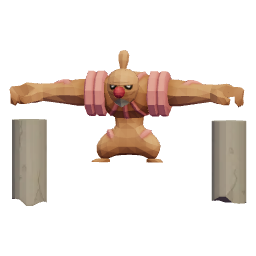
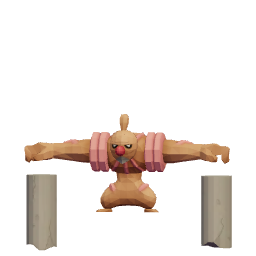
React to committed turns across handoff and amplify Timburr's clips
Move the turn-transition policy into a pure turnCues module: a deduction
earns concern, a verified stable turn a cheer, and unknown or persistent
issues only the next seat's perk. A module-scope sighting survives the
private handoff unmount without reenacting old results after reload.
Amplify routine clips for the small badge and regenerate both portraits
with the feet-anchored framing.

Claude-Session: https://claude.ai/code/session_0117Sn3PSXLUtaDsQVnG2LhH

diff --git a/apps/web/src/companion/motion.ts b/apps/web/src/companion/motion.ts
@@ -77,63 +77,63 @@ export const CLIPS = {
 
   // Routine feedback: a glance or nod, never narration.
   wave: { duration: 1300, priority: PRIORITY.routine, tracks: {
-    tilt: [[0, 0], [.15, .11], [.32, -.08], [.5, .1], [.68, -.06], [.85, .04], [1, 0]],
+    tilt: [[0, 0], [.15, .121], [.32, -.088], [.5, .11], [.68, -.066], [.85, .044], [1, 0]],
     lift: [[0, 0], [.12, .04], [.25, 0], [1, 0]],
-    turn: [[0, 0], [.2, -.15], [.85, -.15], [1, 0]],
+    turn: [[0, 0], [.2, -.21], [.85, -.21], [1, 0]],
   } },
   perk: { duration: 700, priority: PRIORITY.routine, tracks: {
     squash: [[0, 0], [.15, .08], [.4, -.06], [.7, .02], [1, 0]],
-    lift: [[0, 0], [.2, 0], [.42, .07], [.68, 0], [1, 0]],
+    lift: [[0, 0], [.2, 0], [.42, .09], [.68, 0], [1, 0]],
   } },
   point: { duration: 750, priority: PRIORITY.routine, tracks: {
-    turn: [[0, 0], [.3, .3], [.75, .3], [1, 0]],
-    lean: [[0, 0], [.3, .1], [.75, .1], [1, 0]],
-    bend: [[0, 0], [.3, .4], [.75, .4], [1, 0]],
+    turn: [[0, 0], [.3, .42], [.75, .42], [1, 0]],
+    lean: [[0, 0], [.3, .135], [.75, .135], [1, 0]],
+    bend: [[0, 0], [.3, .52], [.75, .52], [1, 0]],
   } },
   measure: { duration: 950, priority: PRIORITY.routine, tracks: {
-    lean: [[0, 0], [.25, .14], [.8, .14], [1, 0]],
-    bend: [[0, 0], [.25, .5], [.8, .5], [1, 0]],
-    tilt: [[0, 0], [.35, .05], [.5, -.05], [.65, .05], [.8, 0], [1, 0]],
+    lean: [[0, 0], [.25, .189], [.8, .189], [1, 0]],
+    bend: [[0, 0], [.25, .65], [.8, .65], [1, 0]],
+    tilt: [[0, 0], [.35, .055], [.5, -.055], [.65, .055], [.8, 0], [1, 0]],
   } },
   nod: { duration: 520, priority: PRIORITY.routine, tracks: {
-    bend: [[0, 0], [.25, .85], [.5, 0], [.72, .6], [1, 0]],
+    bend: [[0, 0], [.25, 1.105], [.5, 0], [.72, .78], [1, 0]],
   } },
   brace: { duration: 950, priority: PRIORITY.routine, tracks: {
     squash: [[0, 0], [.25, .1], [.7, .1], [.85, -.03], [1, 0]],
-    bend: [[0, 0], [.25, .3], [.7, .3], [1, 0]],
-    turn: [[0, 0], [.25, .2], [.7, .2], [1, 0]],
+    bend: [[0, 0], [.25, .39], [.7, .39], [1, 0]],
+    turn: [[0, 0], [.25, .28], [.7, .28], [1, 0]],
   } },
   stepBack: { duration: 650, priority: PRIORITY.routine, tracks: {
-    lean: [[0, 0], [.3, -.12], [.7, -.06], [1, 0]],
+    lean: [[0, 0], [.3, -.162], [.7, -.081], [1, 0]],
     lift: [[0, 0], [.18, .03], [.36, 0], [1, 0]],
-    turn: [[0, 0], [.3, -.1], [1, 0]],
+    turn: [[0, 0], [.3, -.14], [1, 0]],
   } },
   puzzled: { duration: 1000, priority: PRIORITY.routine, tracks: {
-    tilt: [[0, 0], [.25, .17], [.8, .17], [1, 0]],
-    turn: [[0, 0], [.25, .14], [.8, .14], [1, 0]],
+    tilt: [[0, 0], [.25, .187], [.8, .187], [1, 0]],
+    turn: [[0, 0], [.25, .196], [.8, .196], [1, 0]],
   } },
   ponder: { duration: 1700, priority: PRIORITY.routine, tracks: {
-    tilt: [[0, 0], [.2, -.1], [.85, -.1], [1, 0]],
-    turn: [[0, 0], [.2, -.22], [.85, -.22], [1, 0]],
-    bend: [[0, 0], [.2, .25], [.5, .35], [.85, .25], [1, 0]],
+    tilt: [[0, 0], [.2, -.11], [.85, -.11], [1, 0]],
+    turn: [[0, 0], [.2, -.308], [.85, -.308], [1, 0]],
+    bend: [[0, 0], [.2, .325], [.5, .455], [.85, .325], [1, 0]],
   } },
 
   // Result reactions: concern, relief and a little celebration.
   concern: { duration: 1500, priority: PRIORITY.reaction, tracks: {
     squash: [[0, 0], [.25, .05], [.85, .05], [1, 0]],
-    bend: [[0, 0], [.25, .6], [.85, .6], [1, 0]],
-    tilt: [[0, 0], [.25, -.06], [.85, -.06], [1, 0]],
-    turn: [[0, 0], [.25, .25], [.85, .25], [1, 0]],
+    bend: [[0, 0], [.25, .78], [.85, .78], [1, 0]],
+    tilt: [[0, 0], [.25, -.066], [.85, -.066], [1, 0]],
+    turn: [[0, 0], [.25, .35], [.85, .35], [1, 0]],
   } },
   cheer: { duration: 1200, priority: PRIORITY.reaction, tracks: {
     squash: [[0, 0], [.08, .07], [.2, -.05], [.38, .06], [.5, -.05], [.68, .04], [1, 0]],
-    lift: [[0, 0], [.1, 0], [.24, .09], [.38, 0], [.52, .08], [.66, 0], [1, 0]],
-    tilt: [[0, 0], [.24, .08], [.52, -.08], [.8, 0], [1, 0]],
+    lift: [[0, 0], [.1, 0], [.24, .12], [.38, 0], [.52, .1], [.66, 0], [1, 0]],
+    tilt: [[0, 0], [.24, .088], [.52, -.088], [.8, 0], [1, 0]],
   } },
   dance: { duration: 1800, priority: PRIORITY.reaction, tracks: {
-    turn: [[0, 0], [.15, .38], [.4, -.38], [.65, .38], [.88, -.2], [1, 0]],
-    lift: [[0, 0], [.15, .05], [.27, 0], [.4, .05], [.52, 0], [.65, .05], [.77, 0], [1, 0]],
-    bend: [[0, 0], [.15, -.3], [.4, .3], [.65, -.3], [.88, .1], [1, 0]],
+    turn: [[0, 0], [.15, .532], [.4, -.532], [.65, .532], [.88, -.28], [1, 0]],
+    lift: [[0, 0], [.15, .07], [.27, 0], [.4, .07], [.52, 0], [.65, .07], [.77, 0], [1, 0]],
+    bend: [[0, 0], [.15, -.39], [.4, .39], [.65, -.39], [.88, .13], [1, 0]],
   } },
 
   // Rare spectacle: Conkeldurr's foreman arrival and the final outcome.

diff --git a/apps/web/src/components/ReleaseBoard.tsx b/apps/web/src/components/ReleaseBoard.tsx
@@ -12,6 +12,7 @@ import { boardActions, boardDiagram, type SectionAction } from "../viewer/boardD
 import { FinalScorePanel } from "./FinalScorePanel";
 import { Companion, type CompanionProps } from "../companion/Companion";
 import type { CompanionCue, CompanionCueEvent } from "../companion/motion";
+import { sightTurn, turnTransitionCue, type TurnSighting } from "../companion/turnCues";
 import { jointAtSceneSelection, sharedJointPermissions } from "../viewer/jointPermissions";
 import type { CameraMemory } from "../viewer/sceneView";
 import "./releaseBoard.css";
@@ -21,6 +22,8 @@ const order = { element: 0, connection: 1, load: 2 };
 const symbols = { element: "Ι", connection: "⊕", load: "↓" };
 const kinds = { element: "Element", connection: "Connection", load: "Gravity" };
 const seat = (id: string) => id.replace("player-", "Player ");
+/** Last public turn the board showed in this page session (cosmetic only). */
+let lastSighting: TurnSighting | null = null;
 
 function Hand({ game, turn, choose, notify, onEnd, react }: {
   game: Game; turn: TurnState; choose(card: TurnCard): void; notify(message: string): void; onEnd(): void;
@@ -91,17 +94,13 @@ export function ReleaseBoard({ game, turn, message, notify, onEnd, onMenu, menu,
     }
     prior.current = { draftSize, ...counts };
   }, [draftSize, counts.members, counts.connections, counts.loads, cue, notify, react]);
-  // Public turn transitions: a fresh seat perks up; a committed report earns
-  // concern when it carries a deduction, otherwise a small cheer. Repair and
-  // foreman reactions arrive separately through the companion's announcement.
-  const seen = useRef({ turn: turn.turn, reports: turn.reports.length });
+  // Public turn transitions. The board unmounts behind the private handoff
+  // cover, so the last sighting lives at module scope for this page session.
   useEffect(() => {
-    const latestReport = turn.reports.at(-1);
-    if (turn.reports.length > seen.current.reports && latestReport && !turn.finished)
-      react({ kind: latestReport.penalty ? "issue" : "clean-turn" });
-    else if (turn.turn !== seen.current.turn && !turn.finished) react({ kind: "turn-start" });
-    seen.current = { turn: turn.turn, reports: turn.reports.length };
-  }, [turn.turn, turn.reports, turn.finished, react]);
+    const next = turnTransitionCue(lastSighting, turn);
+    lastSighting = sightTurn(turn);
+    if (next) react(next);
+  }, [turn, turn.turn, turn.reports, turn.finished, react]);
   useEffect(() => { if (picked) setInspecting(true); }, [picked]);
   useEffect(() => { if (inspecting) heading.current?.focus({ preventScroll: true }); }, [inspecting]);
   useEffect(() => {

diff --git a/apps/web/src/companion/turnCues.test.ts b/apps/web/src/companion/turnCues.test.ts
@@ -1,0 +1,44 @@
+import { describe, expect, it } from "vitest";
+import { reportCue, sightTurn, turnTransitionCue } from "./turnCues";
+import type { TurnReport } from "../game/turns";
+
+const report = (status: TurnReport["status"], penalty: 0 | -1 = 0) =>
+  ({ turn: 1, playerId: "player-1", status, reason: "", penalty }) as TurnReport;
+const state = (turn: number, reports: TurnReport[], extra: { seed?: number; finished?: boolean } = {}) =>
+  ({ catalogue: "grow-dusk-release-1", seed: extra.seed ?? 7, turn, reports, finished: extra.finished ?? false }) as never;
+
+describe("committed report reactions", () => {
+  it("shows concern only for a recorded deduction", () => {
+    expect(reportCue(report("unstable", -1))).toEqual({ kind: "issue" });
+    expect(reportCue(report("stable", -1))).toEqual({ kind: "issue" });
+  });
+  it("cheers only a verified stable turn", () => {
+    expect(reportCue(report("stable"))).toEqual({ kind: "clean-turn" });
+  });
+  it("never celebrates unknown or persistent issues", () => {
+    for (const status of ["partial", "unresolved", "unstable"] as const)
+      expect(reportCue(report(status))).toEqual({ kind: "turn-start" });
+  });
+});
+
+describe("turn transitions", () => {
+  it("perks once on first sight without reenacting an old result", () => {
+    expect(turnTransitionCue(null, state(3, [report("stable", -1)]))).toEqual({ kind: "turn-start" });
+  });
+  it("reacts to a report committed during this session", () => {
+    const before = sightTurn(state(1, []));
+    expect(turnTransitionCue(before, state(2, [report("stable", -1)]))).toEqual({ kind: "issue" });
+    expect(turnTransitionCue(before, state(2, [report("stable")]))).toEqual({ kind: "clean-turn" });
+  });
+  it("stays quiet on a remount of the same turn", () => {
+    const now = state(2, [report("stable")]);
+    expect(turnTransitionCue(sightTurn(now), now)).toBeNull();
+  });
+  it("treats a different match as a first sighting", () => {
+    const before = sightTurn(state(1, [], { seed: 1 }));
+    expect(turnTransitionCue(before, state(2, [report("stable", -1)], { seed: 2 }))).toEqual({ kind: "turn-start" });
+  });
+  it("leaves a finished match to the victory reaction", () => {
+    expect(turnTransitionCue(null, state(16, [report("stable")], { finished: true }))).toBeNull();
+  });
+});

diff --git a/apps/web/src/companion/turnCues.ts b/apps/web/src/companion/turnCues.ts
@@ -1,0 +1,41 @@
+import type { TurnReport, TurnState } from "../game/turns";
+import type { CompanionCue } from "./motion";
+
+/** What the board last showed for a match, by public identity only. */
+export interface TurnSighting {
+  readonly match: string;
+  readonly turn: number;
+  readonly reports: number;
+}
+
+export function sightTurn(turn: Pick<TurnState, "catalogue" | "seed" | "turn" | "reports">): TurnSighting {
+  return { match: `${turn.catalogue}/${turn.seed}`, turn: turn.turn, reports: turn.reports.length };
+}
+
+/**
+ * Reaction to a newly committed public report, following the avatar criteria:
+ * a deduction earns concern, a verified stable turn a small cheer, and
+ * anything else (partial, unresolved, or a persistent issue without a new
+ * deduction) only the next seat's perk: unknown is never celebrated as stable.
+ */
+export function reportCue(report: Pick<TurnReport, "status" | "penalty">): CompanionCue {
+  if (report.penalty) return { kind: "issue" };
+  return report.status === "stable" ? { kind: "clean-turn" } : { kind: "turn-start" };
+}
+
+/**
+ * Cue for a board (re)mount or turn change. `before` is the previous sighting
+ * from this page session, or null after a reload or for a new match: then only
+ * the routine perk plays, so an old committed result is never reenacted.
+ * Finished matches are left to the victory reaction.
+ */
+export function turnTransitionCue(before: TurnSighting | null,
+  turn: Pick<TurnState, "catalogue" | "seed" | "turn" | "reports" | "finished">): CompanionCue | null {
+  if (turn.finished) return null;
+  const now = sightTurn(turn);
+  const known = before?.match === now.match ? before : null;
+  const latest = turn.reports.at(-1);
+  if (known && now.reports > known.reports && latest) return reportCue(latest);
+  if (!known || now.turn !== known.turn) return { kind: "turn-start" };
+  return null;
+}

diff --git a/apps/web/src/companion/Companion.tsx b/apps/web/src/companion/Companion.tsx
@@ -167,7 +167,7 @@ export function Companion({ area, repairs, announceRepair = false, onPresented, 
       setForeman(eligible ? "reaction" : null);
       // Conkeldurr's entrance supersedes; otherwise relief or concern.
       if (!eligible && !final) react({ kind: latest.attempts.some(a => a.status === "verified") && !latest.pending.length
-        ? "repair" : latest.pending.length ? "issue" : "clean-turn" });
+        ? "repair" : "issue" });
       if (eligible && settings.sound) stopAccent.current = onForemanAccent?.() ?? null;
       setOpen(!final && settings.showCompanion);
       onPresented?.();

diff --git a/apps/web/src/companion/motion.test.ts b/apps/web/src/companion/motion.test.ts
@@ -43,7 +43,7 @@ describe("companion motion clips", () => {
       expect(Math.abs(next - previous)).toBeLessThan(.03);
       previous = next;
     }
-    expect(sampleClip(clip, clip.duration * .25).bend).toBeCloseTo(.85);
+    expect(sampleClip(clip, clip.duration * .25).bend).toBeCloseTo(CLIPS.nod.tracks.bend[1][1]);
   });
 
   it("keeps release idle to subtle breathing and weight shift", () => {
